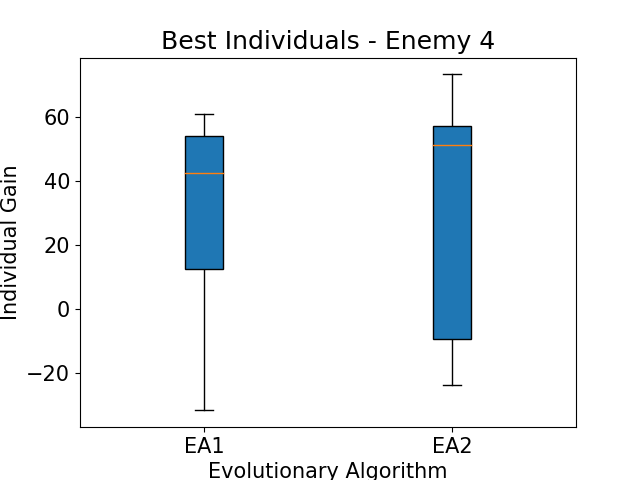
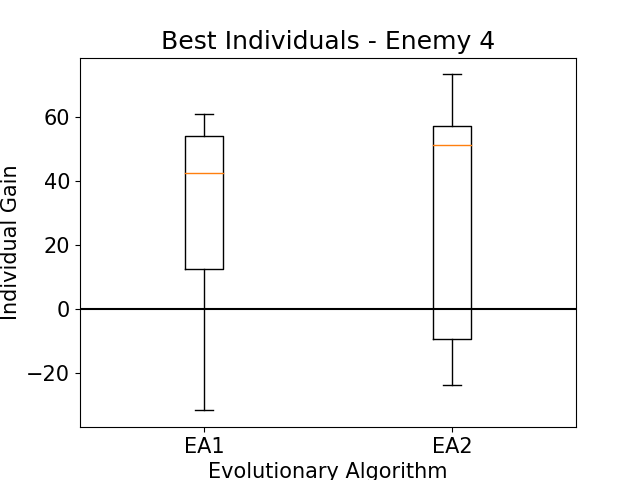
updated plots and plotting function

Changed region(s): [[0.125, 0.25, 0.9062, 0.7188], [0.2812, 0.2812, 0.375, 0.5625]]

diff --git a/plottingBG.py b/plottingBG.py
@@ -98,7 +98,7 @@ def box_plot(enemy):
     print('avg2: Statistics=%.3f, p=%.3f' % (stats, q))
 
     alpha = 0.05
-    if p and q > alpha:
+    if p > alpha and q > alpha:
         print('----------------------------------------------------')
         print('YES Gaussian: (fail to reject H0), therefore apply 2 sample ttest')
         print('2 sample independent ttest: ' + str(ttest_ind(avg_1, avg_2))) 
@@ -115,17 +115,18 @@ def box_plot(enemy):
 
         print('----------------------------------------------------')
 
-    plt.boxplot([avg_1['gain'], avg_2['gain']], patch_artist=True, labels=['EA1', 'EA2'])
+    plt.boxplot([avg_1['gain'], avg_2['gain']], labels=['EA1', 'EA2'])
+    plt.plot([0.5,1,2,2.5], [0,0,0,0], color ='black') # plot line to highlight 0
     plt.xlabel('Evolutionary Algorithm')
     plt.ylabel('Individual Gain')
     plt.title('Best Individuals - Enemy ' + str(enemy))
     plt.savefig('boxplot_E' + str(enemy) + '.png')
     plt.show()
 
-# run the function for line plot
+# run the function for line plot, specify enemy number as parameter
 
 #line_plot(7)
 
-# run the function for boxplot
+# run the function for boxplot, specify enemy number as parameter
 
-box_plot(1)
+box_plot(7)
